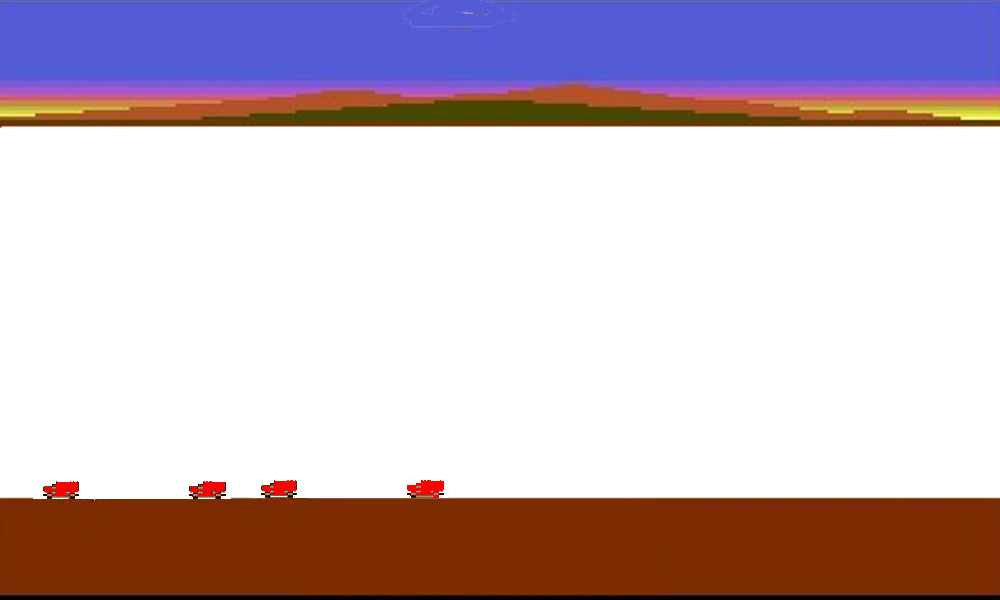
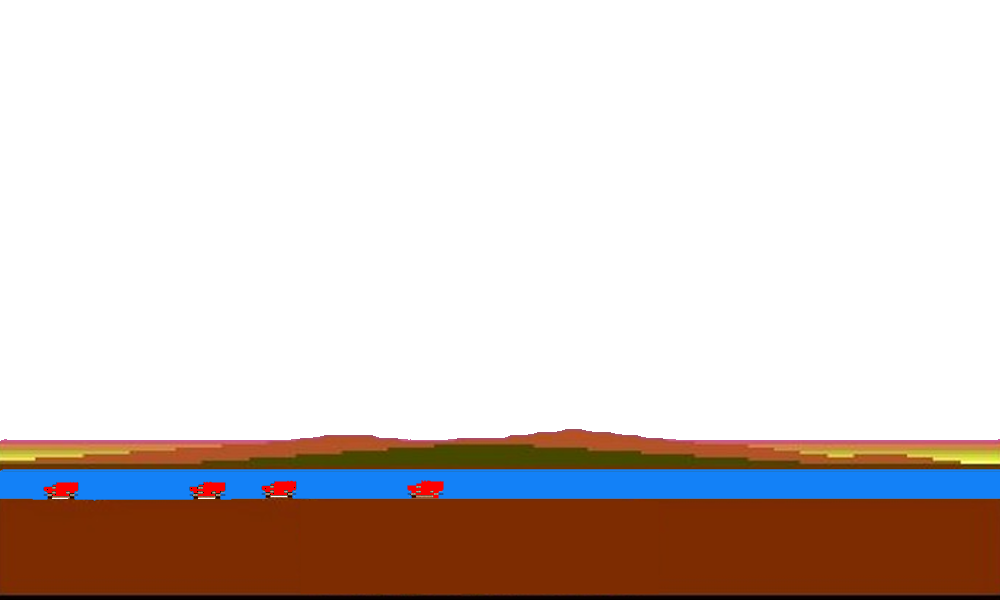
new backgrounds and bug fix

diff --git a/main.py b/main.py
@@ -210,7 +210,7 @@ class Game:
             # Update positions
             if self.plane.y==0:
                 if self.plane.carrying_person:
-                    self.plane.add_score(200)
+                    self.plane.add_score(200 * self.planet)
                     self.plane.carrying_person = False
             # Draw layers (two copies each for looping)
             if self.plane.lives <= 0:
@@ -282,7 +282,7 @@ class Game:
                         if len(self._mutants)<(self.planet):
                             self._mutants.append(Mutant(self._screen, self.plane))
             if self.map_city.people.visible:
-                if hunting_set is False:
+                if hunting_set is False and len(self._aliens)>0:
                     alien = random.choice(self._aliens)
                     if alien is not None:
                         hunting_set = True
@@ -320,23 +320,21 @@ class Game:
                                 mm.explode()
 
                 self._screen.blit(meteor.asteroid, (meteor.x, meteor.y))
-                if loop % 20 == 0:
-                    self.map_city.people.reborn()
                 meteor.move(self.plane)
                 if self.map_city.city.hit_meteor_check(meteor):
-                    self.plane.add_score(-100 * self.number_aliens)
+                    self.plane.add_score(-100 * self.planet)
                 if meteor.crash_check(self.plane, True):
                     self.plane.explode()
                     meteor.reset()
                 if meteor.crash_check(self.plane, False):
                     meteor.explode()
-                    self.plane.add_score(3 * self.number_aliens)
+                    self.plane.add_score(3 * self.planet)
                     self.plane.hit_on_shield()
                 if self.plane.fired_missle and self.plane.fired_missle.hit_check(
                     meteor
                 ):
                     meteor.explode()
-                    self.plane.add_score(10 * self.number_aliens)
+                    self.plane.add_score(10 * self.planet)
                     self.plane.fired_missle = None  # Remove missle after hit
                     if len(meteor.asteroids) > 0:
                         new_meteors.append(
@@ -348,7 +346,7 @@ class Game:
             for meteor in meteors:
                 if self.map_city.ptarget_shown:
                     if self.map_city.people.impact_check(meteor):
-                        self.plane.add_score(-200)
+                        self.plane.add_score(-10 * self.planet)
                 if meteor.y > self._screen.get_height():
                     new_meteors.append(meteor)
 
@@ -366,13 +364,11 @@ class Game:
             self.map_city.draw(self.plane.world_x, lastx)
             if self.map_city.ptarget_shown:
                 if self.map_city.people.crash_check(self.plane):
-                    self.plane.add_score(100)
+                    self.plane.add_score(10 *self.planet)
                     self.plane.carrying_person = True
             if self.map_city.starget_shown:
                 if self.map_city.stargate.crash_check(self.plane):
-                    self.planet += 1
-                    if self.planet > 12:
-                        self.planet = 1
+                    self.planet = random.randint(1,14)
                     self.layer3 = pygame.image.load(
                         f"backgrounds\\layer{self.planet}.png"
                     ).convert_alpha()
@@ -398,12 +394,12 @@ class Game:
 
             lastx = self.plane.world_x
             score_text = (
-                f"SmartBombs:{self.plane.smart_bombs} Shield:{self.plane.shield_time} "
+                f"Bombs:{self.plane.smart_bombs} Shield:{self.plane.shield_time} "
             )
             score_text += f"Score:{self.plane.score} Lives:{self.plane.lives} "
             score_text += f"Meteors:{len(meteors)} "
             score_text += f"Aliens:{len(self._aliens)} Planet:{self.planet} "
-            score_text += f"Rescues:{self.map_city.people.number_of_people()}"
+            score_text += f"People:{self.map_city.people.number_of_people()}"
             self._screen.blit(
                 self.font.render(score_text, True, (255, 255, 0)), (10, 10)
             )

diff --git a/lib/mutant.py b/lib/mutant.py
@@ -12,16 +12,18 @@ class Mutant:
     """Mutant class represents an Mutant that moves across the screen and can fire bullets at the player's plane."""
 
     def __init__(self, screen, plane):
+        filenames = ["chopper.png","ewok.png","defender_mutant.png","bob_ross.png","mutant_area51.png","mutant_chopper.png","mutant_drone.png","vader_ship.png","mutant.png","vader_ufo.png","mutant_predator.png"]
+        filename = random.choice(filenames)
         self._screen = screen
-        self._speed = 5
+        self._speed = 3
         self._hunting = False
         self._bullet = None
         self._right = False
         self._insights = False
         self._visible = True
         self._speed = random.randint(2, 10)
-        self._image_left = pygame.image.load("player\\mutant.png").convert_alpha()
-        self._image_right = pygame.image.load("player\\mutant.png").convert_alpha()
+        self._image_left = pygame.image.load(f"player\\{filename}").convert_alpha()
+        self._image_right = pygame.image.load(f"player\\{filename}").convert_alpha()
         self._explosion = pygame.image.load(
             "player\\alien_explosion.png"
         ).convert_alpha()
@@ -97,7 +99,7 @@ class Mutant:
         plane_rect = plane.image.get_rect(topleft=(plane.x, plane.y))
         mutant_rect = self._image.get_rect(topleft=(self._x, self._y))
         change_direction_chance = (
-            random.randint(0, 100) < 4
+            random.randint(0, 100) < 5
         )  # 4% chance to change direction
         # Fire logic and collisions use world coordinates
         fire = random.randint(0, 100) < 50
@@ -231,7 +233,10 @@ class Mutant:
             ):
                 self._insights = True
 
-        if self._carrying_person:
+        if self._y < plane.y:
+            self._y += self._speed
+
+        if self._y > plane.y:
             self._y -= self._speed
 
 

diff --git a/lib/alien.py b/lib/alien.py
@@ -108,7 +108,7 @@ class Alien:
         plane_rect = plane.image.get_rect(topleft=(plane.x, plane.y))
         alien_rect = self._image.get_rect(topleft=(self._x, self._y))
         change_direction_chance = (
-            random.randint(0, 100) < 4
+            random.randint(0, 1000) < 4
         )  # 4% chance to change direction
         # Fire logic and collisions use world coordinates
         fire = random.randint(0, 100) < 50
